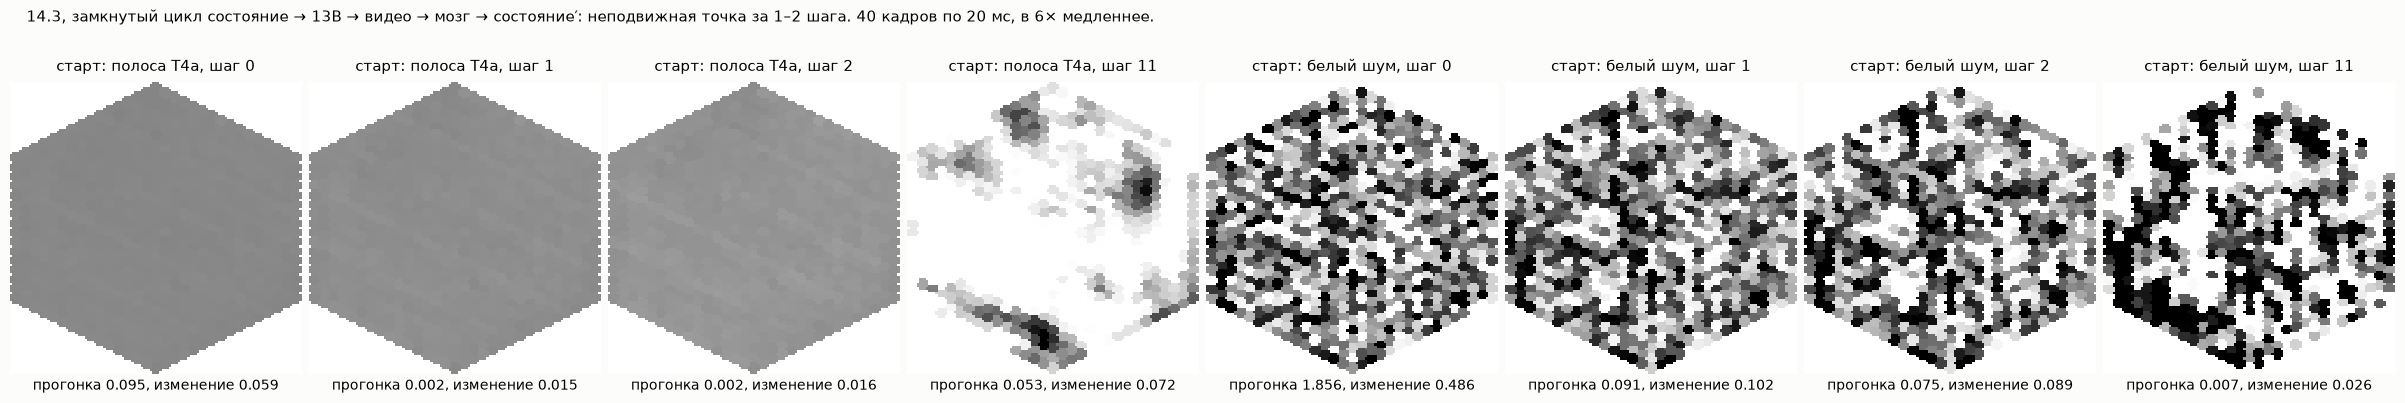
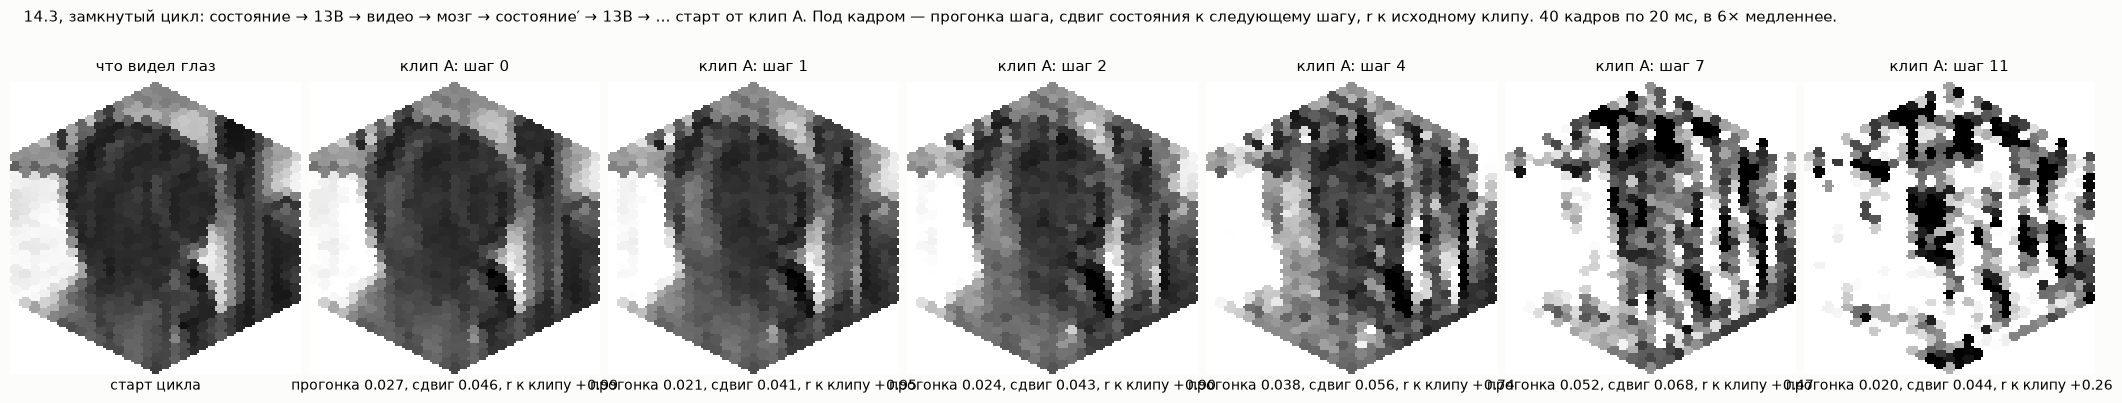
14.3 redone from clip starts: the loop drifts (r to the clip 0.99 -> 0.26 in 11 passes at round trip 0.02-0.05); report, run log, loop clips

diff --git a/flydream/generate/prompts14.py b/flydream/generate/prompts14.py
@@ -236,8 +236,9 @@ def run(model: str, ckpt, manifest: dict, columns: dict, *, frames: int = 40, ma
             + (f"  r_ref {sc['r_ref']:+.2f}" if "r_ref" in sc else ""))
     # --- 14.3 closed loop ---
     loops = {}
-    starts = {"loop_white": states["r0_white"], "loop_hand": states["p_hand_T4a_stripe"], "loop_swap": states["e_right_swap_ab"],
-              "loop_conflict": states["p_left_right_conflict"]}
+    starts = {"loop_clipA": sA, "loop_clipB": sB, "loop_grating": S["right"], "loop_white": states["r0_white"],
+              "loop_hand": states["p_hand_T4a_stripe"], "loop_swap": states["e_right_swap_ab"], "loop_conflict": states["p_left_right_conflict"]}
+    loop_refs = {"loop_clipA": a_np[:frames], "loop_clipB": b_np[:frames], "loop_grating": stim["right"][:frames]}
     for name, st in starts.items():
         cur, hist, vprev = st, [], None
         for it in range(loop_iters):
@@ -248,12 +249,14 @@ def run(model: str, ckpt, manifest: dict, columns: dict, *, frames: int = 40, ma
             nxt = brain(vm)
             rt = round_trip(net, v[None], cur[None], d.cells_all, d.type_of, DEEP, dt, t_pre, margin, (0, T), var_ref)[0]
             rec = {"iter": it, "round_trip": float(rt), "r_video_prev": None if vprev is None else float(pixcorr_per_frame(v, vprev).mean()),
+                   "r_video_start": None if name not in loop_refs else float(pixcorr_per_frame(v, loop_refs[name]).mean()),
                    "state_change": float(np.abs(nxt[:, cells_deep] - cur[:, cells_deep]).mean() / (sA[:, cells_deep].std() + 1e-6)),
                    "direction_T4": direction_energy(nxt, sG, d)["T4_argmax"]}
             hist.append(rec); videos[f"{name}__it{it}"] = v
             cur, vprev = nxt, v
         loops[name] = hist
-        log(f"  {name}: rt " + " ".join(f"{h['round_trip']:.3f}" for h in hist) + " | change " + " ".join(f"{h['state_change']:.3f}" for h in hist))
+        log(f"  {name}: rt " + " ".join(f"{h['round_trip']:.3f}" for h in hist) + " | change " + " ".join(f"{h['state_change']:.3f}" for h in hist)
+            + ("" if name not in loop_refs else " | r to start clip " + " ".join(f"{h['r_video_start']:.2f}" for h in hist)))
     return {"scores": scores, "loops": loops, "notes": note, "frames": frames, "n_seeds": n_seeds, "loop_iters": loop_iters,
             "seconds": round(time.time() - t0, 1), "arrays": {"videos": videos, "refs": refs, "stim": {k: v[:frames] for k, v in stim.items()},
                                                             "states_T4a": {k: d.get(v, "T4a")[:frames] for k, v in states.items()}}}

diff --git a/tools/fig_prompts14.py b/tools/fig_prompts14.py
@@ -75,13 +75,17 @@ def main(argv=None) -> int:
         pair("p_window_up", "↑ только в окне") + pair("p_hand_T4a_stripe", "рукой: полоса T4a")
     row(cells, f"14.2, промпты без видео: состояния собраны из ответов мозга на стимулы по областям поля, последнее написано рукой. {slow}.",
         outdir / f"{a.prefix}_prompts", frames, a.fps, plt, FuncAnimation, PillowWriter)
-    cells = []
-    for name, head in (("loop_hand", "старт: полоса T4a"), ("loop_white", "старт: белый шум")):
+    n_it = S["loop_iters"]
+    for name, head, ref, tag in (("loop_clipA", "клип A", "ref__e_A", "loop"), ("loop_clipB", "клип B", None, "loop_B"),
+                                 ("loop_white", "белый шум", None, "loop_noise")):
         h = S["loops"][name]
-        for it in (0, 1, 2, S["loop_iters"] - 1):
-            cells.append((z[f"video__{name}__it{it}"], f"{head}, шаг {it}", f"прогонка {h[it]['round_trip']:.3f}, изменение {h[it]['state_change']:.3f}"))
-    row(cells, f"14.3, замкнутый цикл состояние → 13B → видео → мозг → состояние′: неподвижная точка за 1–2 шага. {slow}.",
-        outdir / f"{a.prefix}_loop", frames, a.fps, plt, FuncAnimation, PillowWriter)
+        cells = [] if ref is None else [(z[ref], "что видел глаз", "старт цикла")]
+        for it in (0, 1, 2, 4, 7, n_it - 1):
+            foot = f"прогонка {h[it]['round_trip']:.3f}, сдвиг {h[it]['state_change']:.3f}" +                 ("" if h[it].get("r_video_start") is None else f", r к клипу {h[it]['r_video_start']:+.2f}")
+            cells.append((z[f"video__{name}__it{it}"], f"{head}: шаг {it}", foot))
+        row(cells, f"14.3, замкнутый цикл: состояние → 13B → видео → мозг → состояние′ → 13B → … старт от {head}. "
+            f"Под кадром — прогонка шага, сдвиг состояния к следующему шагу, r к исходному клипу. {slow}.",
+            outdir / f"{a.prefix}_{tag}", frames, a.fps, plt, FuncAnimation, PillowWriter)
     return 0
 
 

diff --git a/reports/2026-09-20_step14_controllable_generator.md b/reports/2026-09-20_step14_controllable_generator.md
@@ -6,8 +6,8 @@ human: "мне всё равно, если это не будет работат
 получим"). Code `flydream/generate/prompts14.py`, `tools/fig_prompts14.py`.
 Everything on the trained 13B generator (`gen13b/sit.pt`, EMA weights, 20
 Euler steps, full mask, s = 1) and the frozen model zero; no training.
-**Local CPU, 76 s, $0.** Data `data/prompts14/{summary.json, prompts14.npz}`;
-clips `reports/figures/2026-09-20_malecns_prompts14_{random,edits,prompts,loop}.{gif,png}`
+**Local CPU, 99 s, $0.** Data `data/prompts14/{summary.json, prompts14.npz}`;
+clips `reports/figures/2026-09-20_malecns_prompts14_{random,edits,prompts,loop,loop_B,loop_noise}.{gif,png}`
 (frames 0/20/39 viewed).
 
 ## Question
@@ -53,8 +53,11 @@ A's T4/T5 cells permuted.
 iterations, one z (round trip per iteration; state change = mean |Δ| over
 T4/T5 cells in units of clip A's sd):
 
-| start | round trip, iterations 0 … 11 | change |
-|---|---|---|
+| start | round trip, iterations 0 … 11 | change | r to the start clip, 0 … 11 |
+|---|---|---|---|
+| **clip A** | 0.027, 0.021, 0.024, 0.030, 0.038, 0.043, 0.045, 0.052, 0.049, 0.037, 0.027, 0.020 | 0.04–0.07 | 0.99, 0.95, 0.90, 0.82, 0.74, 0.65, 0.55, 0.47, 0.39, 0.33, 0.29, 0.26 |
+| **clip B** | 0.012, 0.010, 0.015, 0.028, 0.050, 0.062, 0.059, 0.054, 0.048, 0.038, 0.029, 0.022 | 0.03–0.07 | 0.99, 0.95, 0.89, 0.80, 0.69, 0.56, 0.44, 0.33, 0.24, 0.18, 0.13, 0.10 |
+| grating → | 0.099, 0.021, 0.018 … 0.024 | 0.04–0.07 | 0.99, 0.97, 0.95, 0.92, 0.89, 0.84, 0.78, 0.71, 0.64, 0.58, 0.52, 0.46 |
 | white noise | 1.86, 0.09, 0.08, 0.06, 0.04, 0.03, 0.02, 0.015, 0.012, 0.010, 0.008, 0.007 | 0.49 → 0.03 |
 | hand-written stripe | 0.095, 0.002, 0.002, 0.003, 0.004, 0.005, 0.007, 0.012, 0.020, 0.031, 0.044, 0.053 | 0.06 → 0.07 |
 | grating, a↔b | 2.17, 0.024, 0.019, 0.020 … 0.024 | 0.42 → 0.05 |
@@ -91,16 +94,24 @@ T4/T5 cells in units of clip A's sd):
   round trip is low (0.095) only because the stripe is a few columns of
   one type, and the generator ignores it. A prompt has to be written in
   the brain's own patterns; a single type set by hand is not one.
-- **14.3 The pair has fixed points, and one of them is noise.** From any
-  start the pair settles within 1–2 iterations to a video the brain maps
-  back to (nearly) the same state (round trip ≤ 0.03), which makes the
-  "nearest reachable state" of 13A explicit. Two details: from white
-  noise the pair settles on a *noise video* (noise → noise state → noise
-  video, round trip → 0.007) — a fixed point that is not a scene; from
-  the hand-written stripe it sits on grey for ~6 iterations and then
-  drifts (0.002 → 0.053) into blobs — the prior slowly filling an empty
-  state. These are properties of generator + brain, not attractors of
-  the brain.
+- **14.3 From a clip the loop drifts: every step is compatible, the scene
+  is not conserved.** Started from clip A's state, each pass returns a
+  video the brain maps back to nearly the same state (round trip
+  0.02–0.05 at every iteration), yet the video walks away from the clip:
+  r to the start 0.99 → 0.90 (step 2) → 0.65 (step 5) → 0.26 (step 11);
+  clip B 0.99 → 0.10; the grating keeps its motion longer (0.46 at step
+  11). The small per-step error of the pair (the 13A/13B amortisation
+  gap, 0.03) compounds: what the generator loses at each pass — dark
+  regions, fine detail — the brain does not put back, and the prior
+  fills the gap with its own texture, so after ten passes the scene is a
+  different one with the same coarse motion. Unreachable starts jump to
+  a reachable state in one step (white noise 1.86 → 0.09, swap 2.17 →
+  0.02) and then drift the same way; from white noise the pair settles
+  on a *noise video* (round trip → 0.007), a fixed point that is not a
+  scene; from the hand-written stripe it sits on grey for ~6 passes
+  and then drifts into blobs. These are properties of generator +
+  brain, not attractors of the brain; the drift is the honest measure of
+  how much of a scene the pair carries per pass.
 
 ## What this changes for the write-up
 

diff --git a/ROADMAP.md b/ROADMAP.md
@@ -248,8 +248,10 @@ direction channels are not knobs (swaps, rotation, time reversal,
 amplification: 0.7-9.6, motion unchanged); compositions of brain states by
 region are reachable and render as asked (0.06-0.15, the brain reads the
 composite direction back); a hand-written T4a stripe is ignored (grey);
-the closed loop settles in 1-2 iterations, noise is a fixed point, an
-empty state drifts into the prior. `reports/2026-09-20_step14_controllable_generator.md`.
+the closed loop from a clip drifts: every pass compatible (round trip
+0.02-0.05) but r to the clip 0.99 → 0.26 in 11 passes (clip B → 0.10);
+unreachable starts jump to a reachable state in one pass, noise is a
+fixed point. `reports/2026-09-20_step14_controllable_generator.md`.
 Stage closed for the write-up.
 
 
